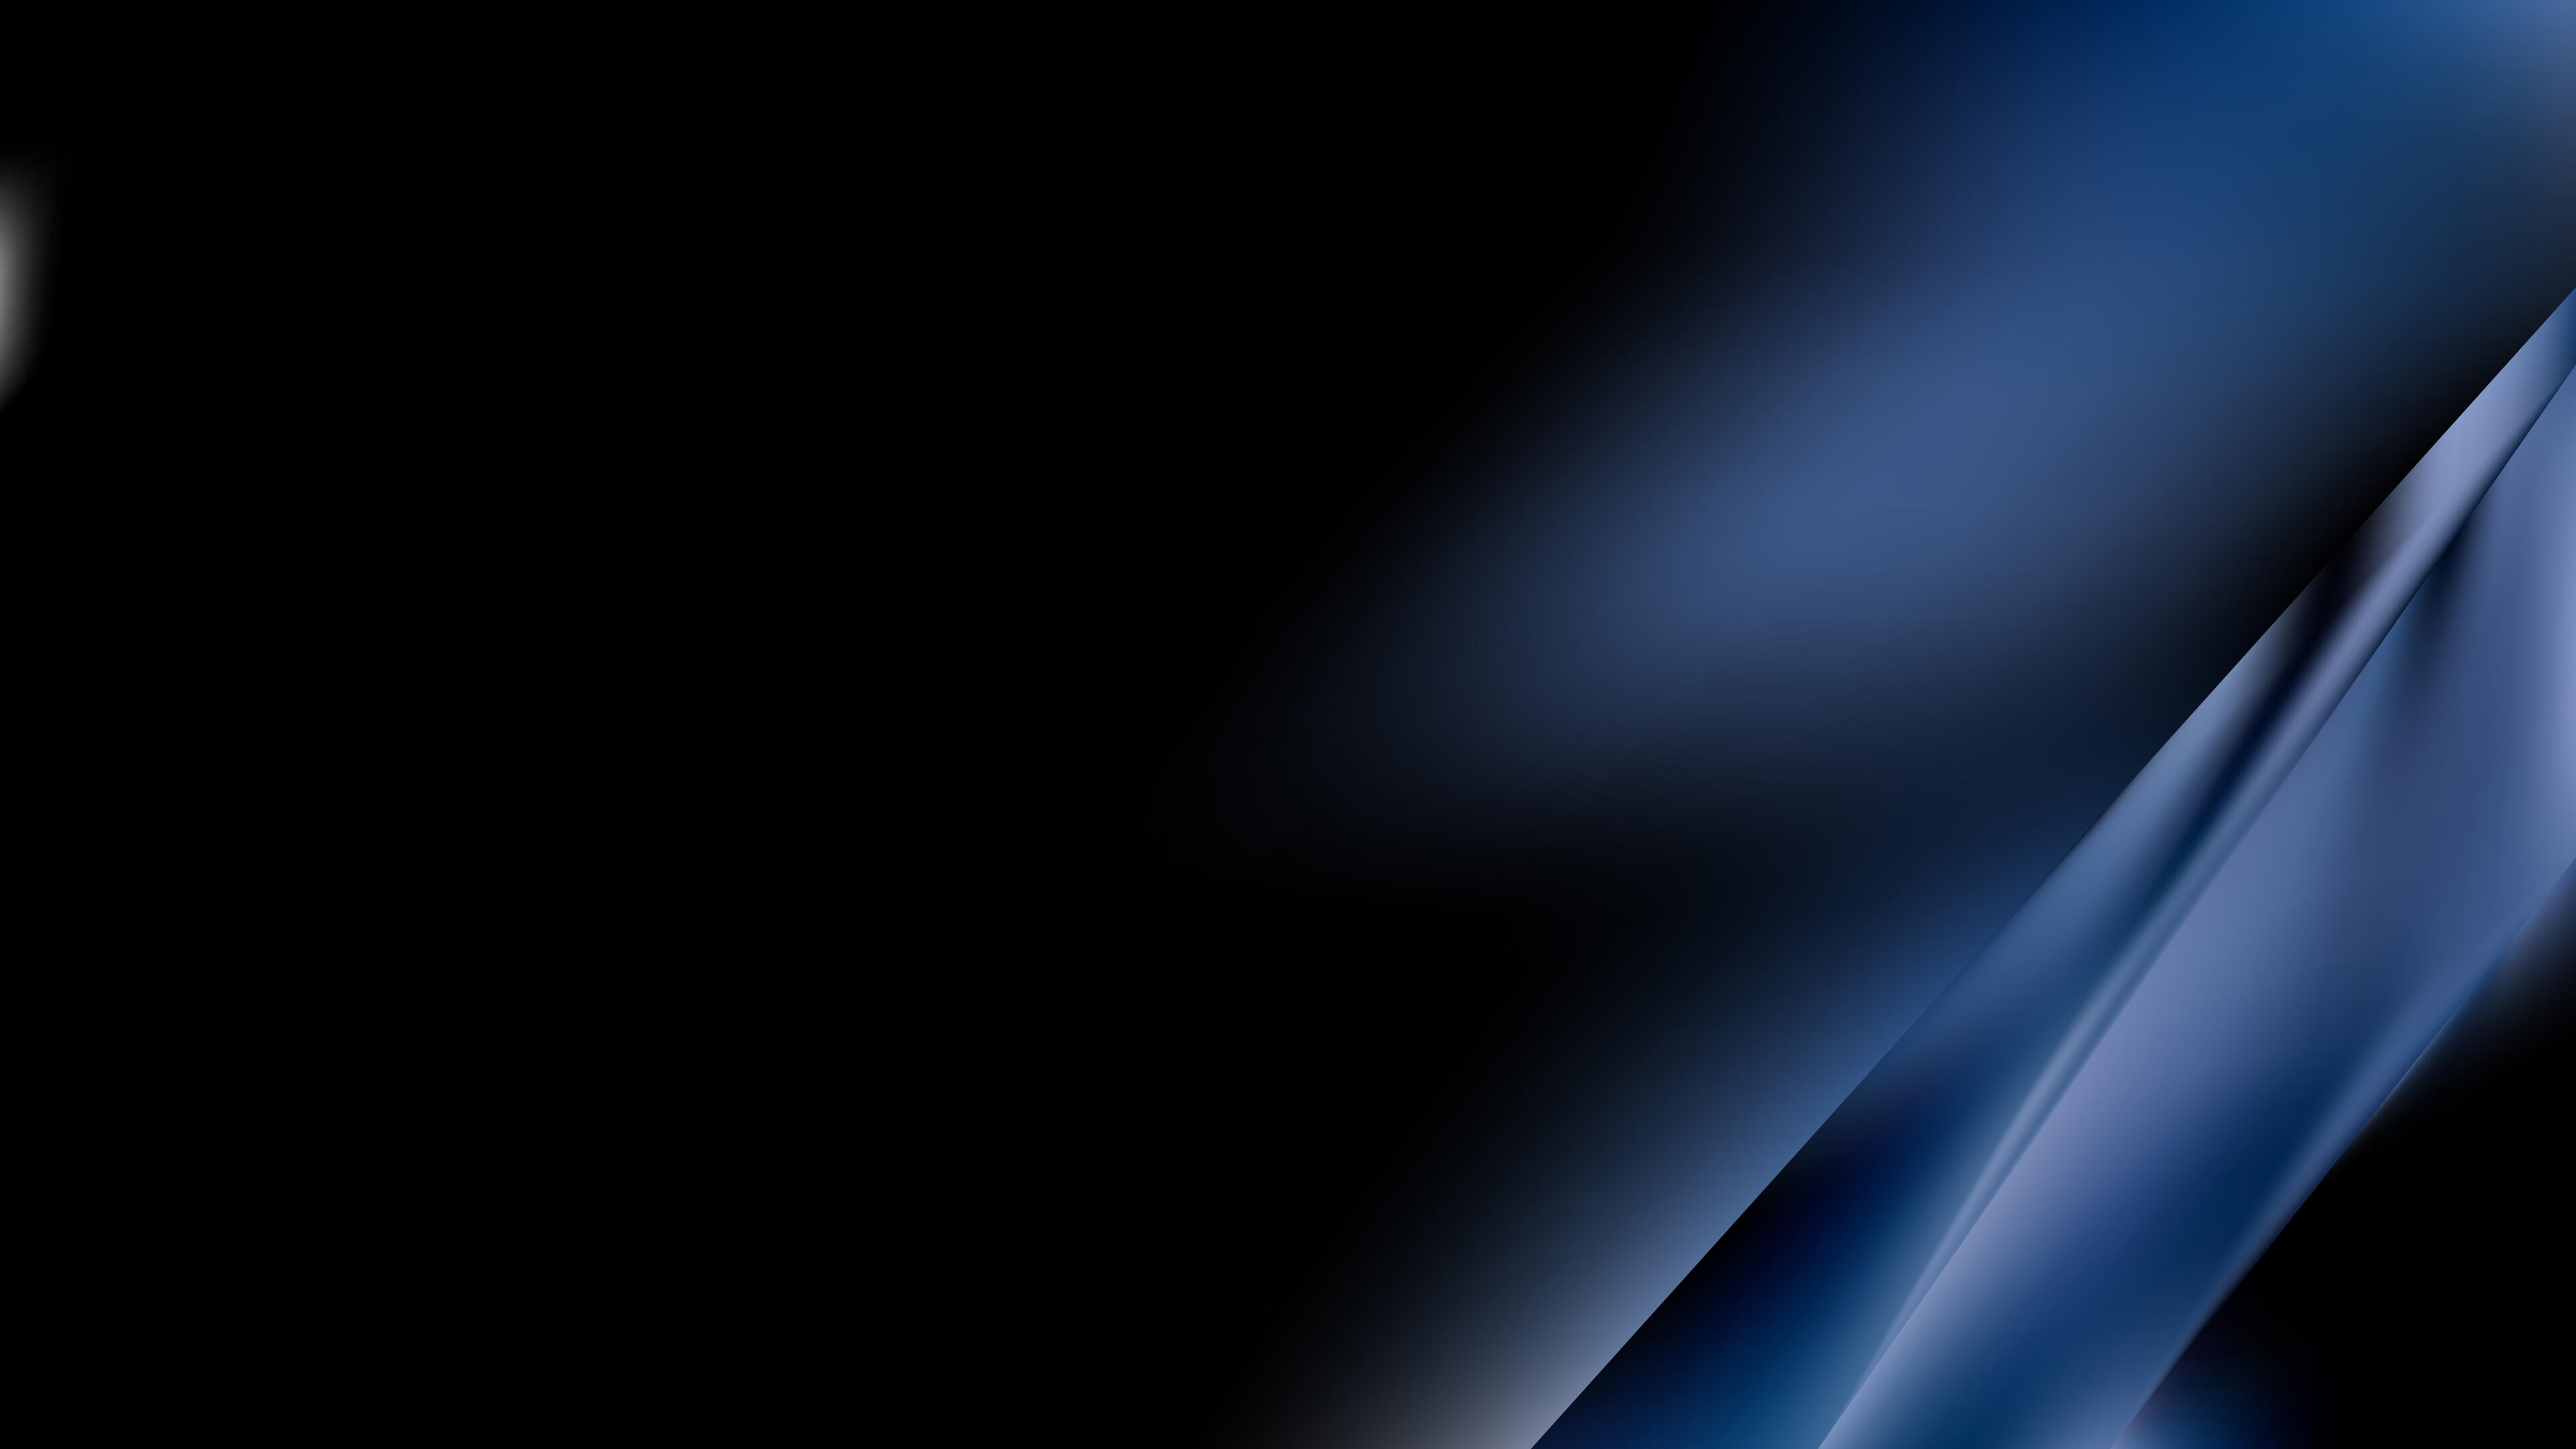
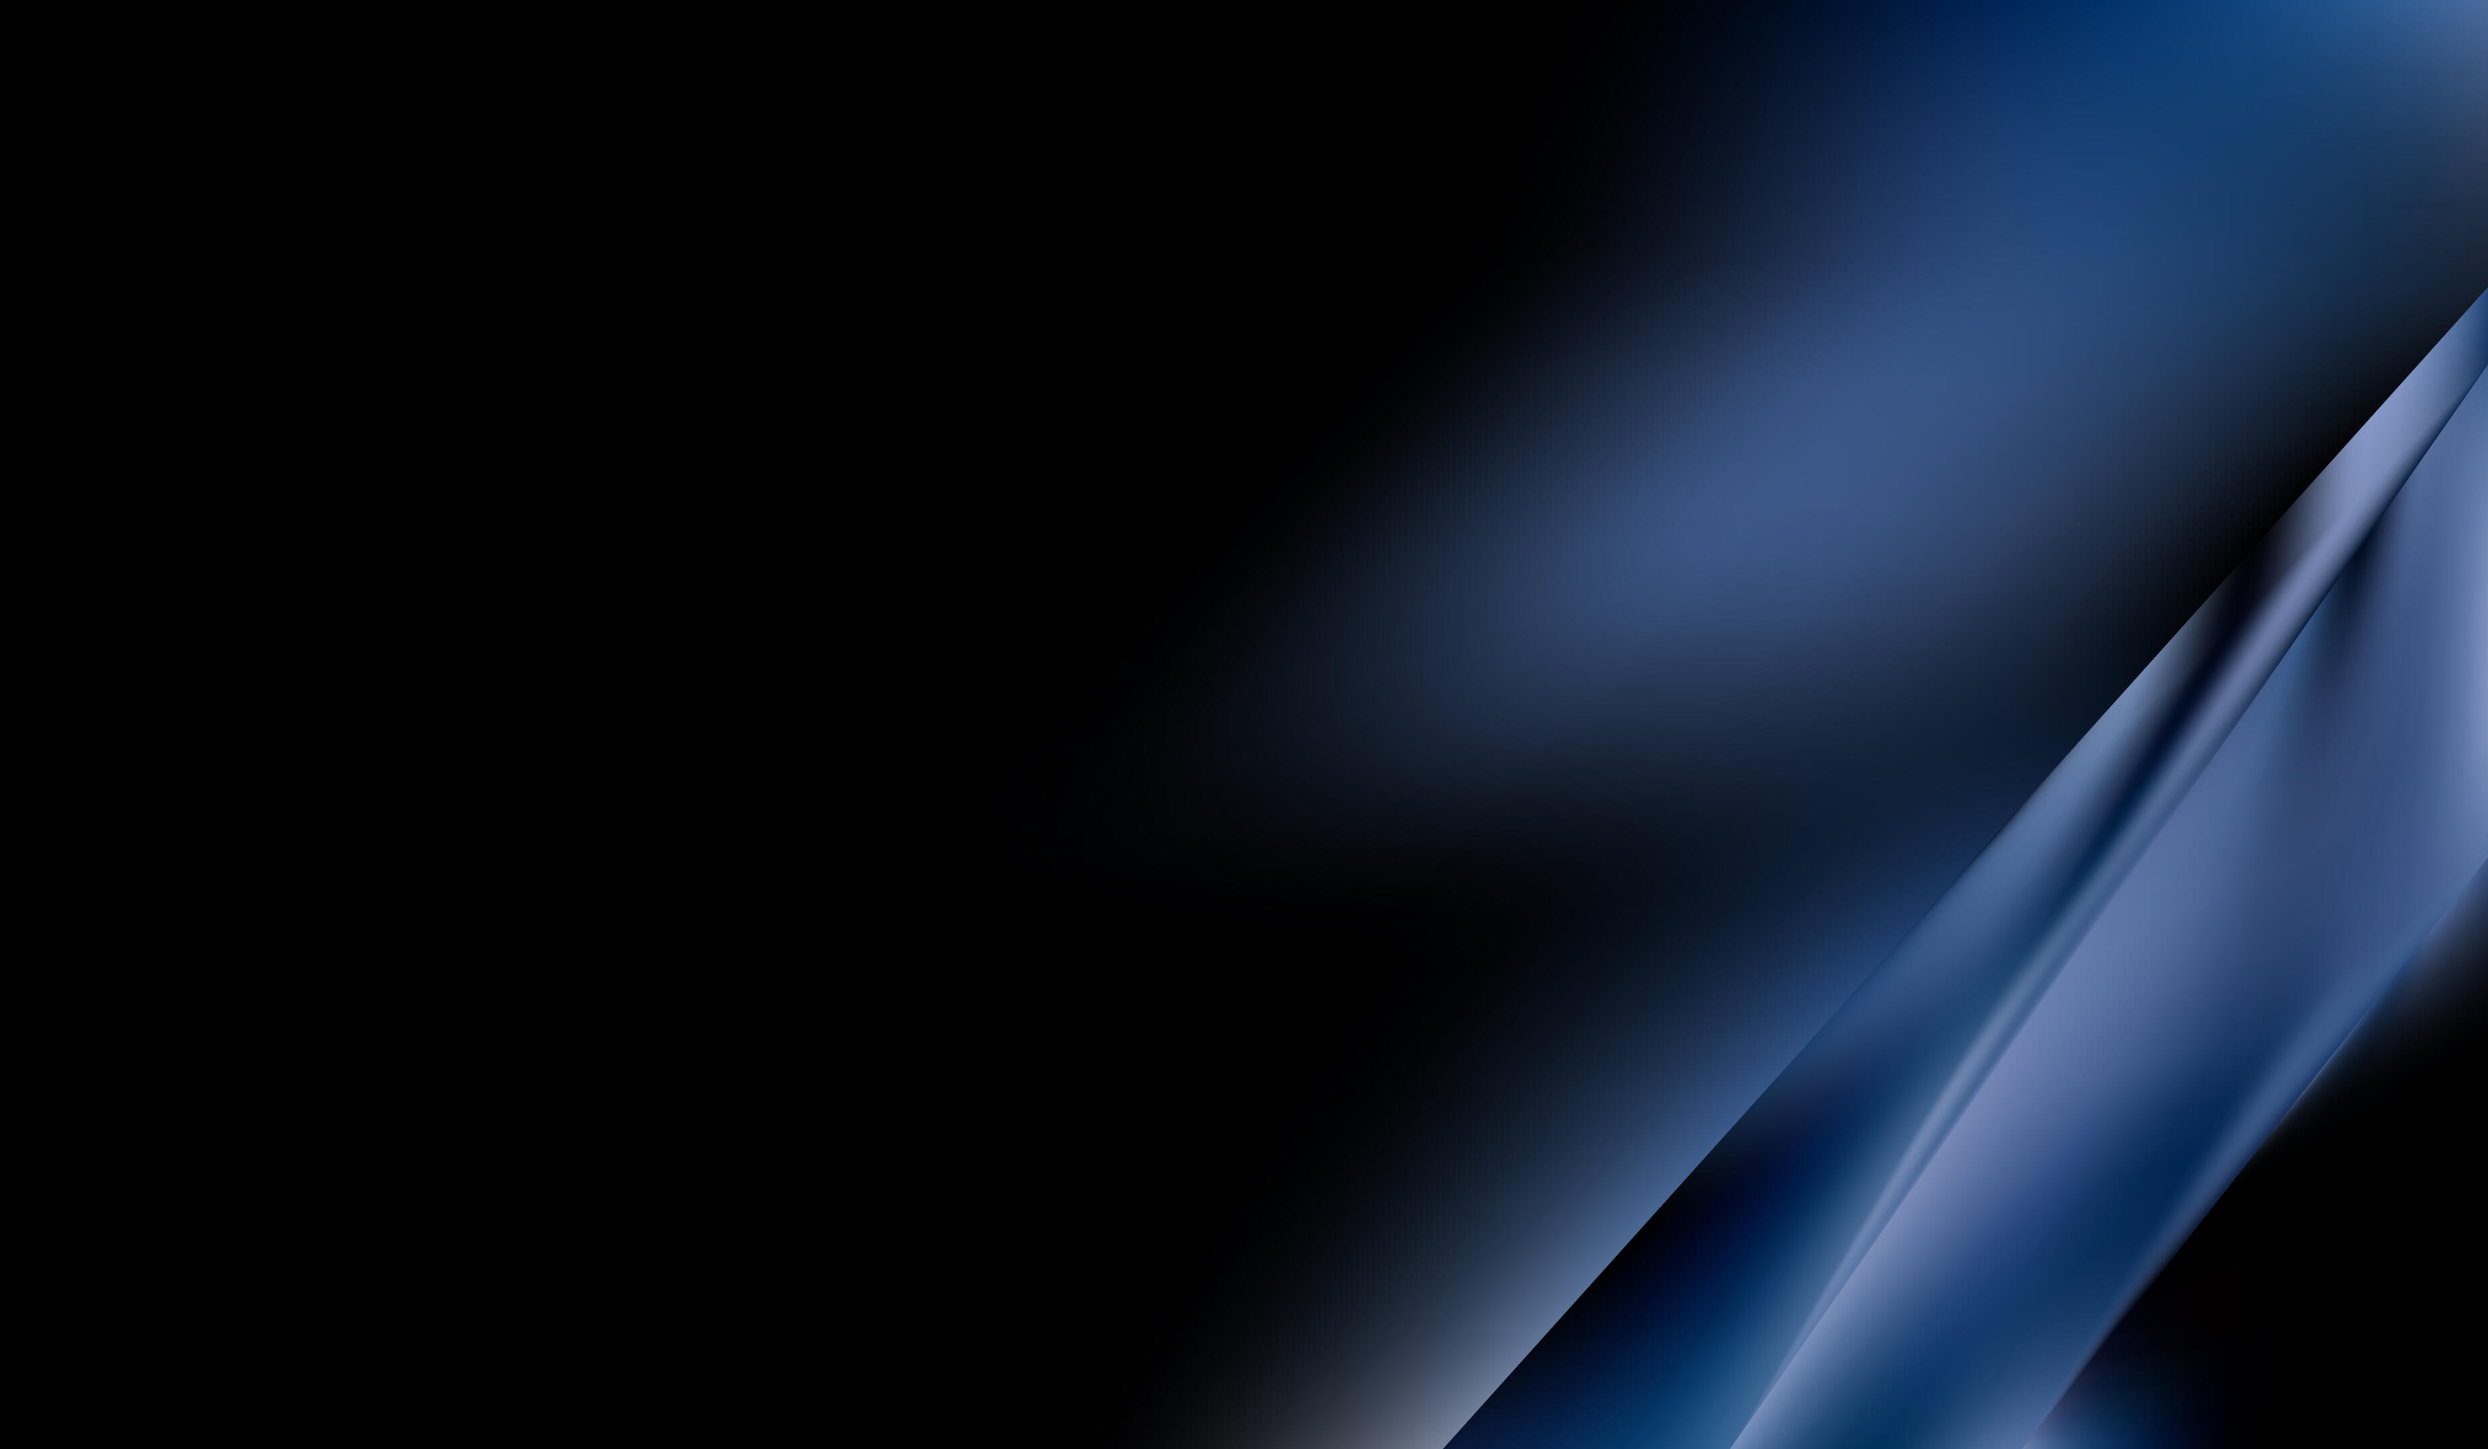
Add Application Security Certificate to certificates section
- Add IBM Application Security for Developers and DevOps Certificate to Certificates section

- Update name "IBM Python for Data Science, AI & Development Certificate" to IBM Python Project for AI and Application Development Certificate

- Resize IBM_application_security_for_developers_and_devops_professionals.png and UPenn_english-for-career-development-certificate.png for performance

- Cut left border of services-bg.png to remove a "stain"

diff --git a/index.html b/index.html
@@ -375,9 +375,9 @@
                   </div>
                 </article>
     
-                <article class="card__article swiper-slide" data-provider="IBM" title="IBM Python for Data Science, AI & Development Certificate">
+                <article class="card__article swiper-slide" data-provider="IBM" title="IBM Python Project for AI and Application Development Certificate">
 					<div class="card__image">
-						<img src="./images/certificates/IBM_python_project_for_ai_and_application_development.png" alt="IBM Python for Data Science, AI & Development Certificate" class="card__img">
+						<img src="./images/certificates/IBM_python_project_for_ai_and_application_development.png" alt="IBM Python Project for AI and Application Development Certificate" class="card__img">
 						<div class="card__shadow"></div>
 					
 						<!-- Badge Container -->
@@ -561,6 +561,31 @@
                   </div>
                 </article>
 
+				<article class="card__article swiper-slide" data-provider="IBM" title="IBM Application Security for Developers and DevOps Certificate">
+					<div class="card__image">
+						<img src="./images/certificates/IBM_application_security_for_developers_and_devops_professionals.png" alt="IBM Application Security for Developers and DevOps Certificate" class="card__img">
+						<div class="card__shadow"></div>
+					
+						<!-- Badge Container -->
+						<div class="badge-container">
+							<!-- Verified by Coursera -->
+							<div class="verified-badge" 
+								data-badge-id="C36YOG4Y72A1" 
+								data-badge-provider="coursera" 
+								title="Verified by Coursera"></div>
+						</div>
+					</div>
+    
+                  <div class="card__data">
+                      <h3 class="card__name">Application Security for Developers and DevOps Professionals</h3>
+                      <p class="card__description">
+						This credential earner has demonstrated proficiency in security concepts to the stages of the software development lifecycle. Certifies proficiency in security by design and how coding practices and other mitigation strategies reduce risk. The earner can write defensive code that follows Open Web Application Security Project (OWASP).
+                      </p>
+    
+                      <a href="#" class="card__button">View More</a>
+                  </div>
+                </article>
+
                 <article class="card__article swiper-slide" data-provider="IBM" title="IBM Container & Kubernetes Essentials V2 Certificate">
 					<div class="card__image">
 						<img src="./images/certificates/IBM_container_and_kubernetes_essentials_V2.png" alt="IBM Container & Kubernetes Essentials V2 Certificate" class="card__img">
@@ -654,8 +679,7 @@
                   </div>
                 </article>
 
-				<article class="card__article swiper-slide" data-provider="IBM" title="IBM Software Engineering Essentials
-				Certificate">
+				<article class="card__article swiper-slide" data-provider="IBM" title="IBM Software Engineering Essentials Certificate">
 					<div class="card__image">
 						<img src="./images/certificates/IBM_software_engineering_essentials.png" alt="IBM Software Engineering Essentials Certificate" class="card__img">
 						<div class="card__shadow"></div>
